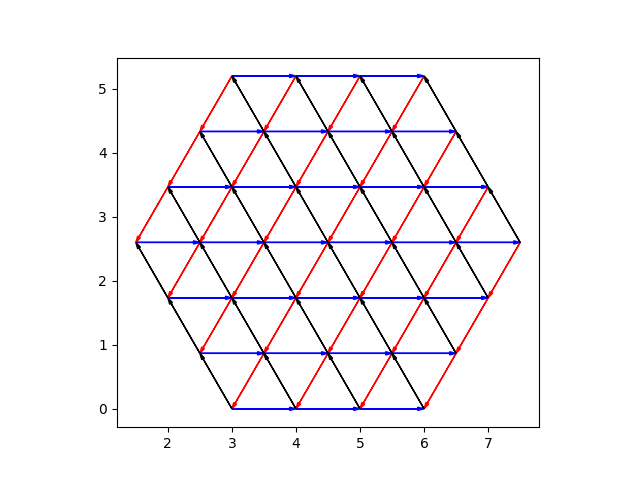
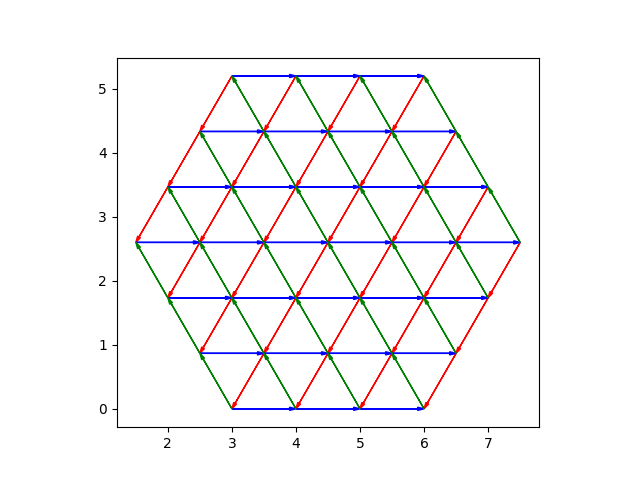
feat: add refresh script of figures

diff --git a/sketch/triangle.py b/sketch/triangle.py
@@ -1,0 +1,51 @@
+import numpy as np
+import matplotlib.pyplot as plt
+
+def RK4(f, Y0, tspan, nt):
+    tstart, tend = tspan[0], tspan[1]
+    h = (tstart-tend)/(nt-1)
+    t = np.linspace(tstart, tend, nt)
+    numvar = Y0.shape[0]
+    Y = np.zeros((numvar, nt))
+    Y.T[0] = Y0
+
+    for i in range(nt-1):
+        yn = Y[:,i]
+        k1 = f(yn, t[i])
+        k2 = f(yn+k1*h/2, t[i]+h/2)
+        k3 = f(yn+k2*h/2, t[i]+h/2)
+        k4 = f(yn+k3*h, t[i]+h)
+        Y[:,i+1] = yn + h/6*(k1+2*k2+2*k3+k4)
+    return Y
+
+def RoPpSc(Y,t):
+    n = Y.shape[0]
+    F = np.zeros(n)
+    F = np.matmul(A, Y)
+    return F
+    
+
+if __name__ == '__main__':
+    Y0 = np.array([0.01]*10)
+    tspan, nt = [0, 500], 10001
+    r1, r2, r3 = 1, 2, 1
+    A = np.array([[0, -r3, r2, 0, 0, 0, 0, 0, 0, 0],
+                  [r3, 0, -r1, -r3, r2, 0, 0, 0, 0, 0],
+                  [-r2, r1, 0, 0, -r3, r2, 0, 0, 0, 0],
+                  [0, r3, 0, 0, -r1, 0, -r3, r2, 0, 0],
+                  [0, -r2, r3, r1, 0, -r1, 0, -r3, r2, 0],
+                  [0, 0, -r2, 0, r1, 0, 0, 0, -r3, r2],
+                  [0, 0, 0, r3, 0, 0, 0, -r1, 0, 0],
+                  [0, 0, 0, -r2, r3, 0, r1, 0, -r1, 0],
+                  [0, 0, 0, 0, -r2, r3, 0, r1, 0, -r1],
+                  [0, 0, 0, 0, 0, -r2, 0, 0, r1, 0]])
+
+
+    
+    result = RK4(RoPpSc, Y0, tspan, nt)
+    for i in range(nt)[::2000]:
+        print('{}, t={}'.format(result[:, i], i))
+    print(result.shape)
+    plt.bar(np.arange(10), result[:,-1])
+    plt.yscale('log')
+    plt.show()

diff --git a/sketch/plot/grid/triangle/triangle.py b/sketch/plot/grid/triangle/triangle.py
@@ -19,7 +19,7 @@ def plot_2d_triangle_grid(size, filepath):
     fig, ax = plt.subplots(subplot_kw={"aspect": "equal"})
     plot_edge_set(ax, edges_type_1, color="red")
     plot_edge_set(ax, edges_type_2, color="blue")
-    plot_edge_set(ax, edges_type_3, color="black")
+    plot_edge_set(ax, edges_type_3, color="green")
     plt.savefig(filepath)
     plt.close()
 

diff --git a/sketch/plot/grid/hexagon/hexagon.py b/sketch/plot/grid/hexagon/hexagon.py
@@ -84,7 +84,7 @@ def plot_2d_hexagon_grid(size, filepath):
     fig, ax = plt.subplots(subplot_kw={"aspect": "equal"})
     plot_edge_set(ax, edges_type_1, color="red")
     plot_edge_set(ax, edges_type_2, color="blue")
-    plot_edge_set(ax, edges_type_3, color="black")
+    plot_edge_set(ax, edges_type_3, color="green")
     plt.savefig(filepath)
     plt.close()
 
